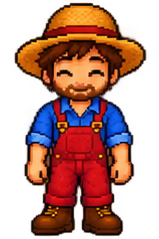
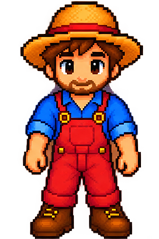
Animacao de parado e de fertilizar
Dois conjuntos novos de sprites entram no jogo: "stay 1..4" e
"fertilizing 1..4", ambos 159x239 como o resto do personagem.

Parado deixa de ser um sprite unico e passa a ter 4 quadros. O relogio da
animacao era zerado justamente ao parar, o que congelaria a animacao no
primeiro quadro para sempre, entao corrida e parado passam a ter relogios
separados: o da corrida continua zerando a cada parada (todo passo comeca no
mesmo quadro) e o de parado corre por baixo, a 5 fps -- bem mais devagar,
porque e respiracao e nao passada.

Fertilizar era a unica acao sem animacao: aplicava direto do menu. Agora passa
pelo mesmo caminho de plantar, colher e remover, com animacao propria de regar
e o efeito valendo so quando ela termina -- antes disso nem o fertilizante sai
do inventario nem a estamina e cobrada.

diff --git a/farm/player.py b/farm/player.py
@@ -17,7 +17,7 @@ SPRITE_SIZE = (159, 239)
 
 IDLE = "idle"
 DIRECTIONS = ("down", "up", "left", "right")
-ACTIONS = ("planting", "harvest")   # 4 quadros cada, todos de frente
+ACTIONS = ("planting", "harvest", "fertilizing")   # 4 quadros cada, de frente
 FACING_BY_STEP = {(1, 0): "right", (-1, 0): "left", (0, 1): "down", (0, -1): "up"}
 
 
@@ -44,6 +44,7 @@ class Player:
         self.stamina = self.max_stamina
         self.action: str | None = None
         self._action_time = 0.0
+        self._idle_time = 0.0
         self.on_step = on_step          # avisado a cada celula concluida
         self._step_origin = start_cell
 
@@ -59,7 +60,7 @@ class Player:
         factor = settings.PLAYER_HEIGHT / SPRITE_SIZE[1]
         folder = settings.CHARACTER_DIR
 
-        sources = {IDLE: [f"{folder}/stay 1.png"]}
+        sources = {IDLE: [f"{folder}/stay {i}.png" for i in range(1, 5)]}
         for direction in DIRECTIONS:
             sources[f"run_{direction}"] = [
                 f"{folder}/run {direction} {i}.png" for i in range(1, 5)
@@ -134,7 +135,14 @@ class Player:
             budget = self._advance(budget)
 
         self.moving = self._target is not None
-        self._anim_time = self._anim_time + dt if self.moving else 0.0
+        # Cada estado tem seu relogio: zerar o da corrida faz o passo comecar
+        # sempre no mesmo quadro, e o de parado segue correndo por baixo.
+        if self.moving:
+            self._anim_time += dt
+            self._idle_time = 0.0
+        else:
+            self._anim_time = 0.0
+            self._idle_time += dt
 
     def _start_step(self, direction: pygame.Vector2) -> bool:
         """Mira na celula vizinha. False se nao ha direcao ou se ela e bloqueada."""
@@ -186,10 +194,15 @@ class Player:
             index = min(int(self._action_time * settings.ACTION_ANIM_FPS), len(frames) - 1)
             return frames[index]
 
-        # So existe um sprite de "stay", entao parado ele sempre olha para frente.
-        frames = self.animations[f"run_{self.facing}" if self.moving else IDLE]
-        index = int(self._anim_time * settings.PLAYER_ANIM_FPS) % len(frames)
-        return frames[index]
+        # Os quadros de "stay" sao todos de frente: parado ele olha para frente,
+        # seja qual for a direcao em que estava correndo.
+        if self.moving:
+            frames = self.animations[f"run_{self.facing}"]
+            index = int(self._anim_time * settings.PLAYER_ANIM_FPS)
+        else:
+            frames = self.animations[IDLE]
+            index = int(self._idle_time * settings.PLAYER_IDLE_FPS)
+        return frames[index % len(frames)]
 
     def draw(self, surface: pygame.Surface, view: View) -> None:
         frame = self.current_frame()

diff --git a/farm/game.py b/farm/game.py
@@ -31,13 +31,14 @@ MOVE_KEYS = {
 CONFIRM_KEYS = (pygame.K_SPACE, pygame.K_RETURN, pygame.K_KP_ENTER)
 
 HOUSE_ZONE, SHOP_ZONE = "casa", "comercio"
-PLANT, HARVEST, CLEAR = "plantar", "colher", "remover"
+PLANT, HARVEST, CLEAR, FERTILIZE = "plantar", "colher", "remover", "fertilizar"
 
 # Tipos de menu (viram a coluna `item` das linhas de menu no CSV)
 SEED_MENU, FERT_MENU = "semente", "fertilizante"
 SHOP_MENU, SELL_MENU, BUY_MENU = "comercio", "vender", "comprar"
 # Remover reaproveita a animacao de colheita: e o mesmo gesto de arrancar.
-ACTION_ANIMATION = {PLANT: "planting", HARVEST: "harvest", CLEAR: "harvest"}
+ACTION_ANIMATION = {PLANT: "planting", HARVEST: "harvest", CLEAR: "harvest",
+                    FERTILIZE: "fertilizing"}
 
 Cell = tuple[int, int]
 
@@ -251,6 +252,8 @@ class Game:
             removida = self.field.remove(cell)      # nao rende nada
             self.player.spend(settings.STAMINA_CLEAR)
             self._record("remover", cell=cell, item=removida, amount=1)
+        elif kind == FERTILIZE:
+            self._use_fertilizer(cell)
         else:
             harvested = self.field.harvest(cell)
             self.inventory.add(harvested)
@@ -431,7 +434,7 @@ class Game:
             self._start_action(PLANT, cell, value)
         elif kind == FERT_MENU:
             self._close_menu()
-            self._use_fertilizer(cell)
+            self._start_action(FERTILIZE, cell)
         elif kind == SHOP_MENU:
             self._open_menu(self._sell_menu(cell) if value == SELL_MENU
                             else self._buy_menu(cell))

diff --git a/farm/settings.py b/farm/settings.py
@@ -30,6 +30,7 @@ PLAYER_START_CELL = (17, 12)
 PLAYER_HEIGHT = 110       # altura do sprite em pixels de mundo (~2 celulas)
 PLAYER_SPEED = 396        # pixels de mundo por segundo (~0,13s por celula)
 PLAYER_ANIM_FPS = 15      # acompanha PLAYER_SPEED, senao a passada patina
+PLAYER_IDLE_FPS = 5       # respiracao parado: bem mais lenta que a corrida
 
 # Acoes do jogador (plantar/colher): 4 quadros, ~0,5s cada animacao
 ACTION_ANIM_FPS = 8

diff --git a/docs/CONTROLS.md b/docs/CONTROLS.md
@@ -50,9 +50,12 @@ superficie e so reaproveitado, ja que as areas nao mudam durante o jogo.
 - Apenas 4 direcoes: na diagonal, a horizontal tem prioridade.
 - So entra em celula andavel; ao esbarrar ele vira para o lado tentado mas nao sai do lugar.
 - Velocidade: 396 px/s, ou seja ~0,13s por celula (~8 celulas por segundo).
-- Animacoes: `run` nas 4 direcoes (4 quadros a 18 fps) e `stay` parado.
-  Como so existe um sprite de `stay`, parado ele sempre olha para frente.
-- `planting` e `harvest` tem 4 quadros a 8 fps (~0,5s). Enquanto rodam, o jogador nao anda
+- Animacoes de 4 quadros cada. `run` nas 4 direcoes roda a 15 fps, acompanhando a velocidade;
+  `stay` roda a 5 fps, bem mais devagar, porque e respiracao e nao passada.
+- Parado, a animacao continua rodando: correr e ficar parado tem relogios separados, entao parar
+  nao congela o personagem. Os quadros de `stay` sao todos de frente, entao parado ele sempre
+  olha para frente, seja qual for a direcao em que estava correndo.
+- `planting`, `harvest` e `fertilizing` tem 4 quadros a 8 fps (~0,5s). Enquanto rodam, o jogador nao anda
   nem aceita outra acao, e o efeito da acao so vale quando a animacao acaba.
 
 ## Plantas

diff --git a/docs/GAME_RULES.md b/docs/GAME_RULES.md
@@ -102,8 +102,9 @@ Ao zerar a estamina a tela escurece e mostra:
 
 ## Fertilizante
 
-Usar custa **1 fertilizante e 2 de estamina**, e faz duas coisas de uma vez: encurta o
-crescimento e estica a validade.
+Usar custa **1 fertilizante e 2 de estamina**, roda a animacao propria de regar (`fertilizing`)
+e faz duas coisas de uma vez: encurta o crescimento e estica a validade. Como nas outras acoes, o
+efeito so vale quando a animacao termina.
 
 | Cultura | Cresce em | Fertilizada cresce em | Dura | Fertilizada dura |
 | --- | --- | --- | --- | --- |
